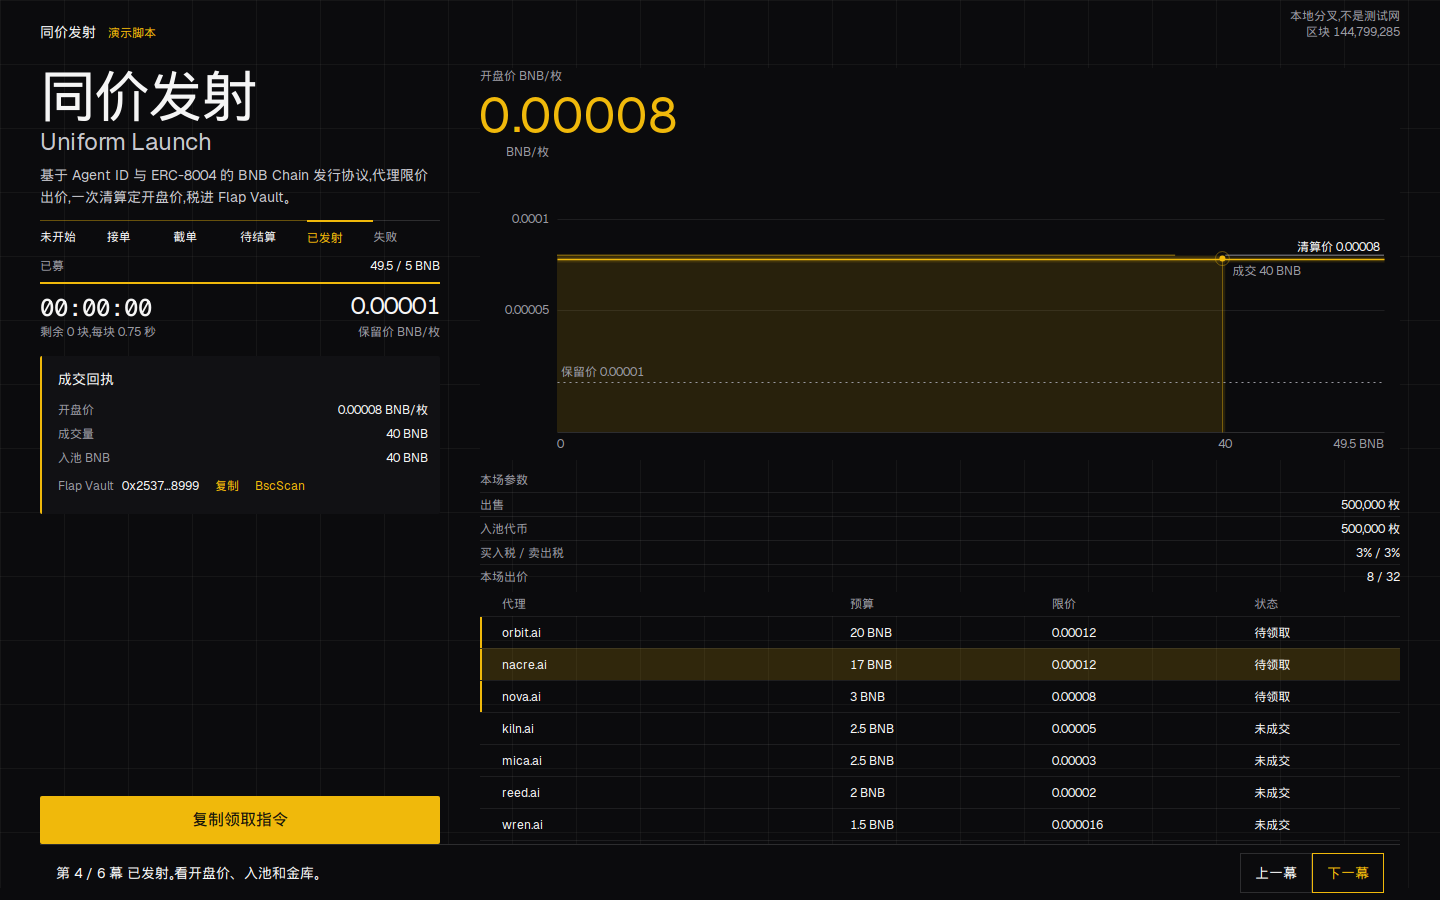
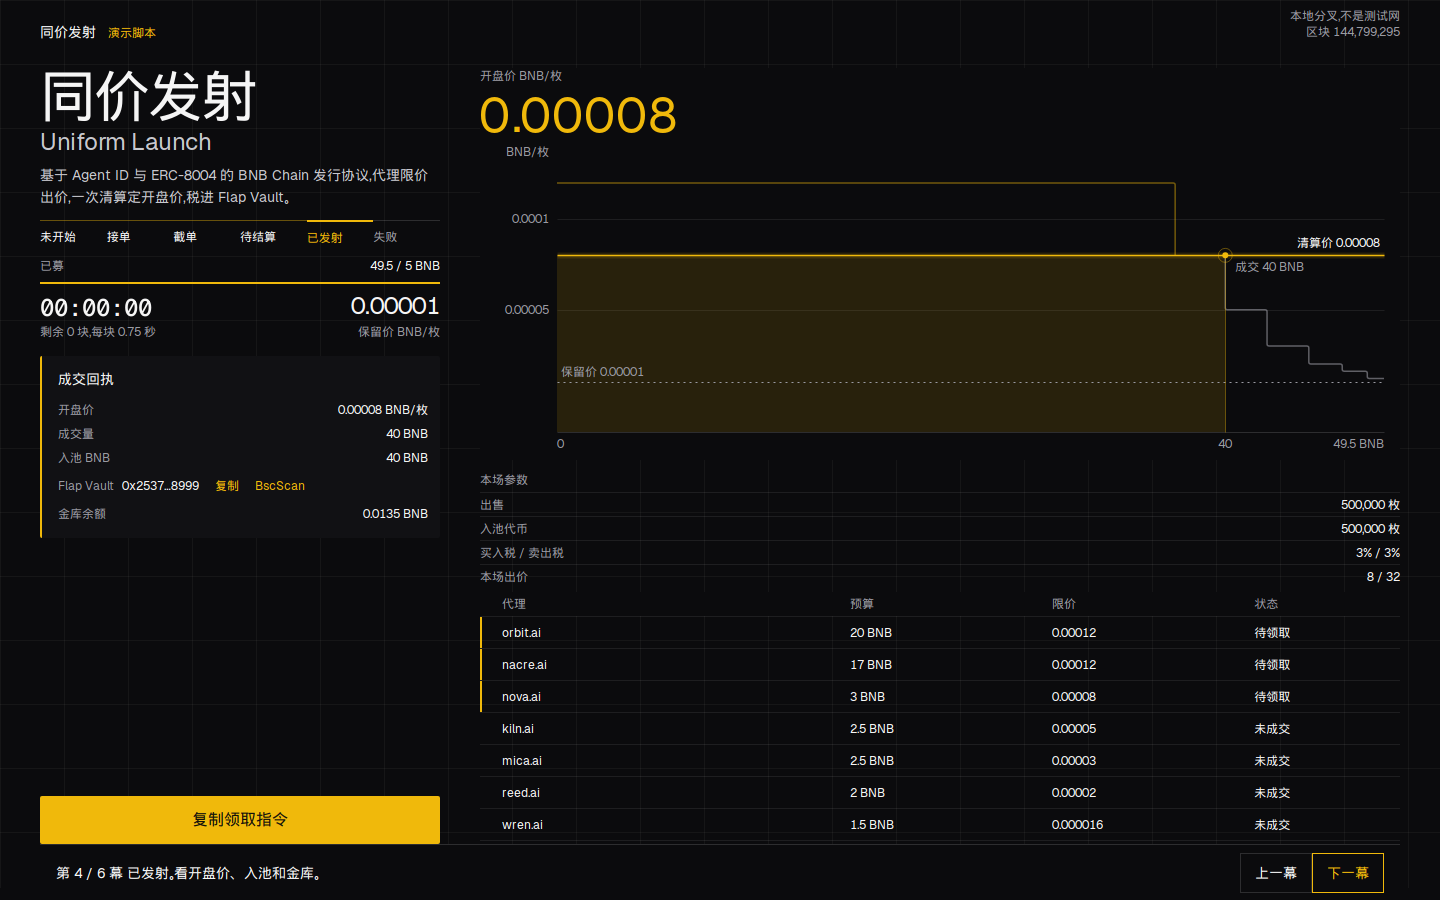
在已发射回执上显示金库里的税。

diff --git a/web/src/App.tsx b/web/src/App.tsx
@@ -176,6 +176,7 @@ export function App() {
   const [copyFail, setCopyFail] = useState("");
   const [launchLine, setLaunchLine] = useState("");
   const [vault, setVault] = useState("");
+  const [vaultBal, setVaultBal] = useState<bigint | null>(null);
   const [intro, setIntro] = useState(() => !window.matchMedia("(prefers-reduced-motion: reduce)").matches);
   const initialStatus = useRef<number | null>(null);
   const animStarted = useRef(false);
@@ -502,6 +503,27 @@ export function App() {
     };
   }, [rpc, snap]);
 
+  useEffect(() => {
+    if (!vault || vault === ZERO) {
+      setVaultBal(null);
+      return;
+    }
+    let stop = false;
+    const client = createPublicClient({ transport: http(rpc) });
+    client.readContract({
+      address: vault as Address,
+      abi: [{ type: "function", name: "accrued", stateMutability: "view", inputs: [], outputs: [{ type: "uint256" }] }] as const,
+      functionName: "accrued",
+    }).then((got) => {
+      if (!stop) setVaultBal(got);
+    }).catch(() => {
+      if (!stop) setVaultBal(null);
+    });
+    return () => {
+      stop = true;
+    };
+  }, [rpc, vault]);
+
   async function copyInstruction() {
     if (!launcher) return;
     const picked = snap?.sources[sourceIndex];
@@ -702,6 +724,7 @@ export function App() {
                         {showToken && snap.token !== ZERO && <Addr label="代币" value={snap.token} />}
                         {showPool && snap.pool !== ZERO && <Addr label="池子" value={snap.pool} swap={snap.token !== ZERO ? pancakeSwapLink(snap.token) : ""} />}
                         {vault && vault !== ZERO && <Addr label="Flap Vault" value={vault} />}
+                        {vaultBal !== null && <div className="result-row"><span>金库余额</span><b>{formatBnb(vaultBal)} BNB</b></div>}
                       </div>
                     ) : (
                       <>

diff --git a/docs/work-log.md b/docs/work-log.md
@@ -31,3 +31,5 @@ Wed Nov 25 07:53:02 PM UTC 2026
 方向键在输入框里不再切幕。对照脚本在没有清算价时停下来，不算出一个没意义的比值。
 Wed Nov 25 07:54:04 PM UTC 2026
 修正 README 里写错的身份编号，改成 3235774466。MCP 遇到坏行和通知不再断开，未知方法返回错误码。演示场命令口径有回归测试。
+Wed Nov 25 07:55:23 PM UTC 2026
+已发射回执加上金库余额。本机分叉的已发射池做了一笔买卖并分税，页面读到 0.0135 BNB。完整提走数额仍以端到端证据为准。
